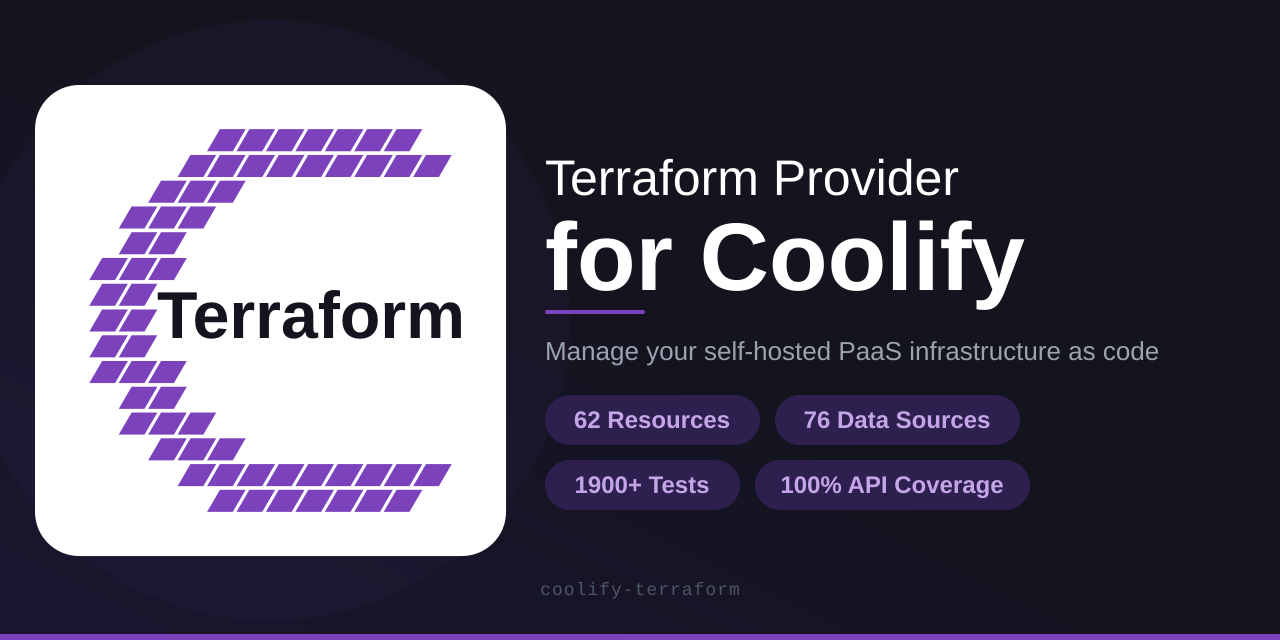
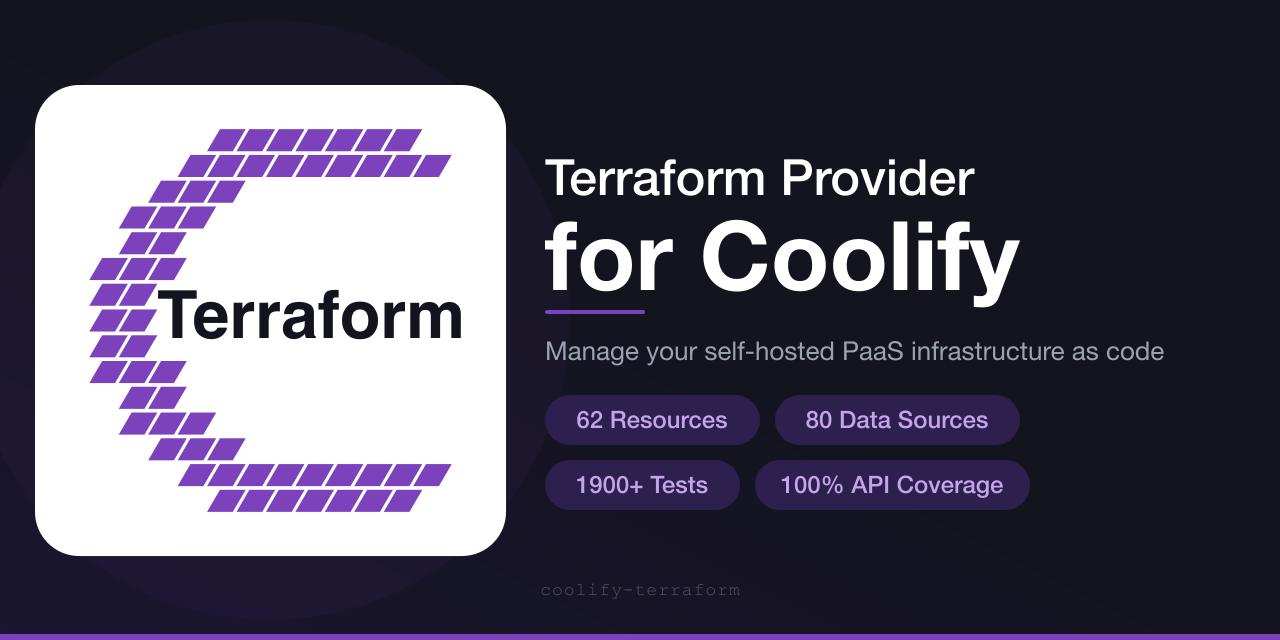
fix: keep every channel title on the alpha line (#1050)
## Summary

- Channel issue titles for nightly-ahead and channels-updated now drop
the dated alpha stamp, same as the support title. A later publish of
`4.7.0-alpha.0.YYYYMMDD.N` updates the open issue instead of replacing
it. The body still shows the full nightly version.
- ServerSetting log-drain and proxy columns are `skipNA`. They are
public writes on `coolify_server_log_drain` and `coolify_server_proxy`.
The skip check now includes those controllers.
- The social preview badge says 80 data sources, matching the provider
registration.

## Test plan

- [x] `python3 -m unittest scripts.test_check_coolify_channels` (48
tests)
- [x] `go test -count=1 -run TestSkipTaxonomy ./internal/spectest/`

diff --git a/scripts/test_check_coolify_channels.py b/scripts/test_check_coolify_channels.py
@@ -369,6 +369,63 @@ class TestDecide(unittest.TestCase):
         )
         self.assertEqual(again.action, "update")
 
+    def test_dated_nightly_ahead_title_stays_when_pin_is_release(self):
+        # Pin already is the final release. Nightly is still a dated
+        # alpha ahead of stable, so the title is the watch form.
+        def snap(nightly):
+            return cc.ChannelSnapshot(
+                stable="4.6.0",
+                nightly=nightly,
+                pin="4.7.0",
+                latest_release="4.7.0",
+                tip_version="4.7.0",
+            )
+
+        first = cc.decide(snap("4.7.0-alpha.0.20261106.1"))
+        second = cc.decide(snap("4.7.0-alpha.0.20261107.1"))
+        self.assertIn("ahead of stable", first.title)
+        self.assertEqual(first.title, second.title)
+        self.assertIn("4.7.0-alpha.0", first.title)
+        self.assertNotIn("20261106", first.title)
+        self.assertIn("4.7.0-alpha.0.20261107.1", second.body)
+        again = cc.decide(
+            snap("4.7.0-alpha.0.20261107.1"),
+            existing_title=first.title,
+        )
+        self.assertEqual(again.action, "update")
+
+    def test_dated_channels_updated_title_stays(self):
+        # A dated alpha behind stable uses the channels-updated title.
+        def snap(nightly):
+            return cc.ChannelSnapshot(
+                stable="4.7.0",
+                nightly=nightly,
+                pin="4.7.0",
+                latest_release="4.7.0",
+                tip_version="4.7.0",
+            )
+
+        previous = {
+            "stable": "4.7.0",
+            "nightly": "4.7.0-alpha.0.20261105.1",
+            "pin": "4.7.0",
+            "prereleases": [],
+        }
+        first = cc.decide(snap("4.7.0-alpha.0.20261106.1"), previous=previous)
+        second_prev = dict(previous)
+        second_prev["nightly"] = "4.7.0-alpha.0.20261106.1"
+        second = cc.decide(snap("4.7.0-alpha.0.20261107.1"), previous=second_prev)
+        self.assertEqual(first.action, "update")
+        self.assertIn("channels updated", first.title)
+        self.assertEqual(first.title, second.title)
+        self.assertNotIn("20261106", first.title)
+        again = cc.decide(
+            snap("4.7.0-alpha.0.20261107.1"),
+            previous=second_prev,
+            existing_title=first.title,
+        )
+        self.assertEqual(again.action, "update")
+
     def test_same_title_updates_existing_issue(self):
         snap = cc.ChannelSnapshot(
             stable="4.1.2", nightly="4.2.0", pin="4.1.2", prereleases=["4.2.0"]

diff --git a/internal/spectest/contract_skips.go b/internal/spectest/contract_skips.go
@@ -183,12 +183,12 @@ var serverSettingCoverageSkips = skipMap(
 	skipInternal("patch_check_frequency", "Coolify patch probe result; not on update_server"),
 	skipInternal("patch_check_result", "Coolify patch probe result; not on update_server"),
 	skipInternal("patch_checked_at", "Coolify patch probe result; not on update_server"),
-	skipInternal("is_logdrain_cloudwatch_enabled", "written by coolify_server_log_drain, not server PATCH"),
-	skipInternal("logdrain_axiom_domain", "written by coolify_server_log_drain, not server PATCH"),
-	skipInternal("logdrain_cloudwatch_group", "written by coolify_server_log_drain, not server PATCH"),
-	skipInternal("logdrain_cloudwatch_region", "written by coolify_server_log_drain, not server PATCH"),
-	skipInternal("logdrain_cloudwatch_stream_prefix", "written by coolify_server_log_drain, not server PATCH"),
-	skipInternal("traefik_certificate_resolver", "written by coolify_server_proxy, not server PATCH"),
+	skipNA("is_logdrain_cloudwatch_enabled", "written by coolify_server_log_drain, not server PATCH"),
+	skipNA("logdrain_axiom_domain", "written by coolify_server_log_drain, not server PATCH"),
+	skipNA("logdrain_cloudwatch_group", "written by coolify_server_log_drain, not server PATCH"),
+	skipNA("logdrain_cloudwatch_region", "written by coolify_server_log_drain, not server PATCH"),
+	skipNA("logdrain_cloudwatch_stream_prefix", "written by coolify_server_log_drain, not server PATCH"),
+	skipNA("traefik_certificate_resolver", "written by coolify_server_proxy, not server PATCH"),
 )
 
 var environmentCoverageSkips = skipMap(

diff --git a/scripts/check-coolify-channels.py b/scripts/check-coolify-channels.py
@@ -578,17 +578,30 @@ def decide(
         if shown and (not target or version_lt(target, shown)):
             target = shown
 
+    # Every title uses the alpha line, not the dated CDN stamp.
+    # A later publish of the same line must update the open issue.
+    nightly_shown = title_version(nightly)
+    stable_shown = title_version(stable)
     if needs_support_work:
         title = f"coolify-channel: support Coolify {target} (pin is {pin})"
         action = "open"
     elif watch_next_line:
-        title = f"coolify-channel: nightly {nightly} ahead of stable {stable} (pin {pin})"
+        title = (
+            f"coolify-channel: nightly {nightly_shown} ahead of stable "
+            f"{stable_shown} (pin {pin})"
+        )
         action = "open"
     elif channels_changed:
-        title = f"coolify-channel: channels updated (stable {stable}, nightly {nightly})"
+        title = (
+            f"coolify-channel: channels updated "
+            f"(stable {stable_shown}, nightly {nightly_shown})"
+        )
         action = "update"
     else:
-        title = f"coolify-channel: stable {stable}, nightly {nightly}, pin {pin}"
+        title = (
+            f"coolify-channel: stable {stable_shown}, "
+            f"nightly {nightly_shown}, pin {pin}"
+        )
         action = "none"
 
     if existing_title and action != "none":

diff --git a/internal/spectest/skip_test.go b/internal/spectest/skip_test.go
@@ -106,7 +106,11 @@ func TestSkipTaxonomy_NoInternalOnAllowedFields(t *testing.T) {
 		{"projectCoverageSkips", projectCoverageSkips, []string{"ProjectController::", "ProjectsController::"}},
 		{"environmentCoverageSkips", environmentCoverageSkips, []string{"ProjectController::", "ProjectsController::"}},
 		{"privateKeyCoverageSkips", privateKeyCoverageSkips, []string{"SecurityController::", "PrivateKeysController::"}},
-		{"serverSettingCoverageSkips", serverSettingCoverageSkips, []string{"ServersController::"}},
+		{"serverSettingCoverageSkips", serverSettingCoverageSkips, []string{
+			"ServersController::",
+			"ServerLogDrainsController::",
+			"ServerProxyController::",
+		}},
 	}
 
 	var violations []string
